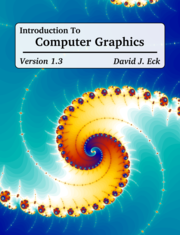
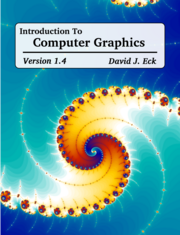
Mostly small edits and corrections in prep for Version 1.4 release

diff --git a/README.md b/README.md
@@ -1,6 +1,7 @@
 # graphicsbook
 This git repository contains the full source files for the free textbook *Introduction to Computer Graphics,* Version 1.4.
-This version is under development in summer 2023.  The latest release version is 1.3.1.
+These sources are used to build both the web site and the PDF versions of the book. Version 1.4
+was released on August 1, 2023.
 See the [preface](https://math.hws.edu/graphicsbook/preface.html) for information about the book.
 
 *Introduction to Computer Graphics* can be accessed on the web at
@@ -8,9 +9,8 @@ See the [preface](https://math.hws.edu/graphicsbook/preface.html) for informatio
 The front page of each web site has links for downloading the textbook in
 web-site and PDF formats.
 
-This repository contains the source files that are used to generate the book in all formats.
-The sources include XML, XSLT, DTD, Java, C, HTML, and other files, 
-plus some scripts for generating the web site and PDFs.  The
+The source files in this repository include XML, XSLT, DTD, Java, C, HTML, and other files, 
+plus some bash shell scripts for generating the web site and PDFs.  The
 scripts were written for Linux but should also work on MacOS.
 Since the source files were not originally meant for publication, they
 are not very cleanly written, and using them would require a lot of expertise.
@@ -20,13 +20,14 @@ To produce the book from the XML/XSLT files, you will need a copy of the XSLT pr
 The XSLT files use some features that are specific to Xalan-J.  To produce the
 PDF versions, you will also need an installation of the TeX typesetting system.
 
-The sources are stored in an Eclipse project named graphicstext.
-To use it to produce the book, you first
+The sources are in the *graphicstext* folder.
+To use them to produce the book, you first
 need to export the files by editing and running the script *export-source.sh* from the graphicstext folder.  (The
 script must first be edited to specify the correct directory names for the local environment.)  The exported 
 directory will contain scripts for building the book in various formats and a file, README.txt,
 with instructions for using the scripts.
 
+The *graphicstext* folder is actually a project for the Eclipse IDE.
 Note that if you want to use the project in Eclipse, your Eclipse should have the XML tools plugin installed.
 The project includes the .jar files required for JOGL, the Java implementation of OpenGL.  There will be
 errors in the src-jogl directory unless you configure the project to use the JOGL jar files, as discussed
